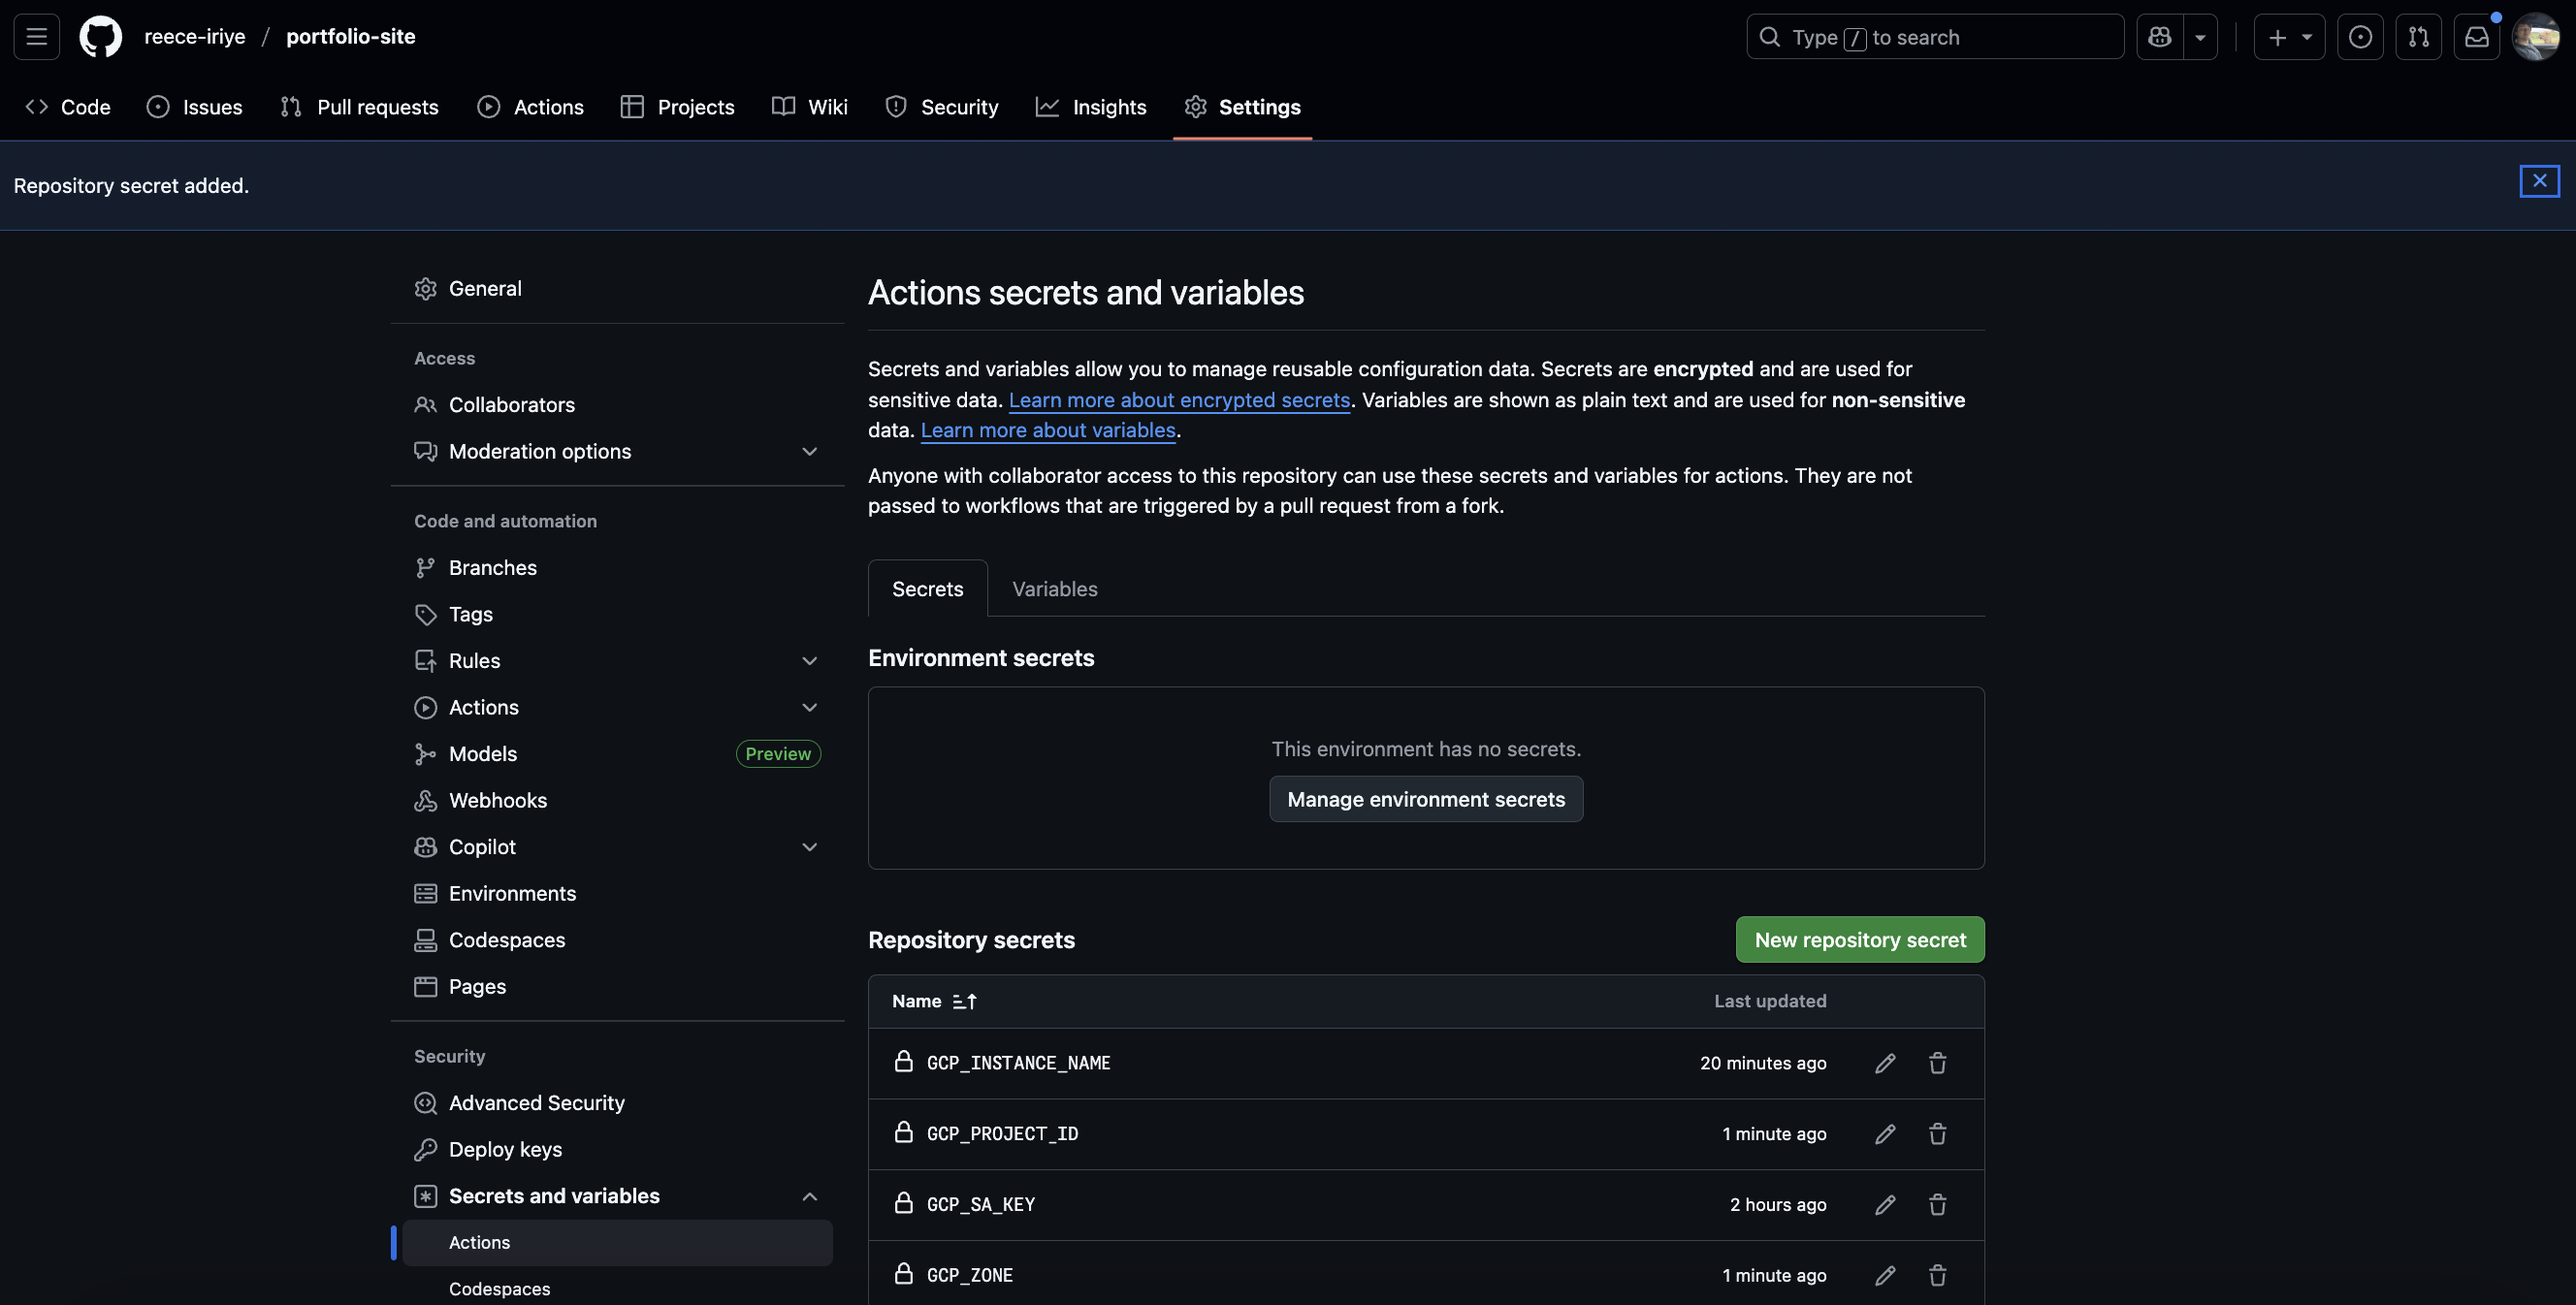
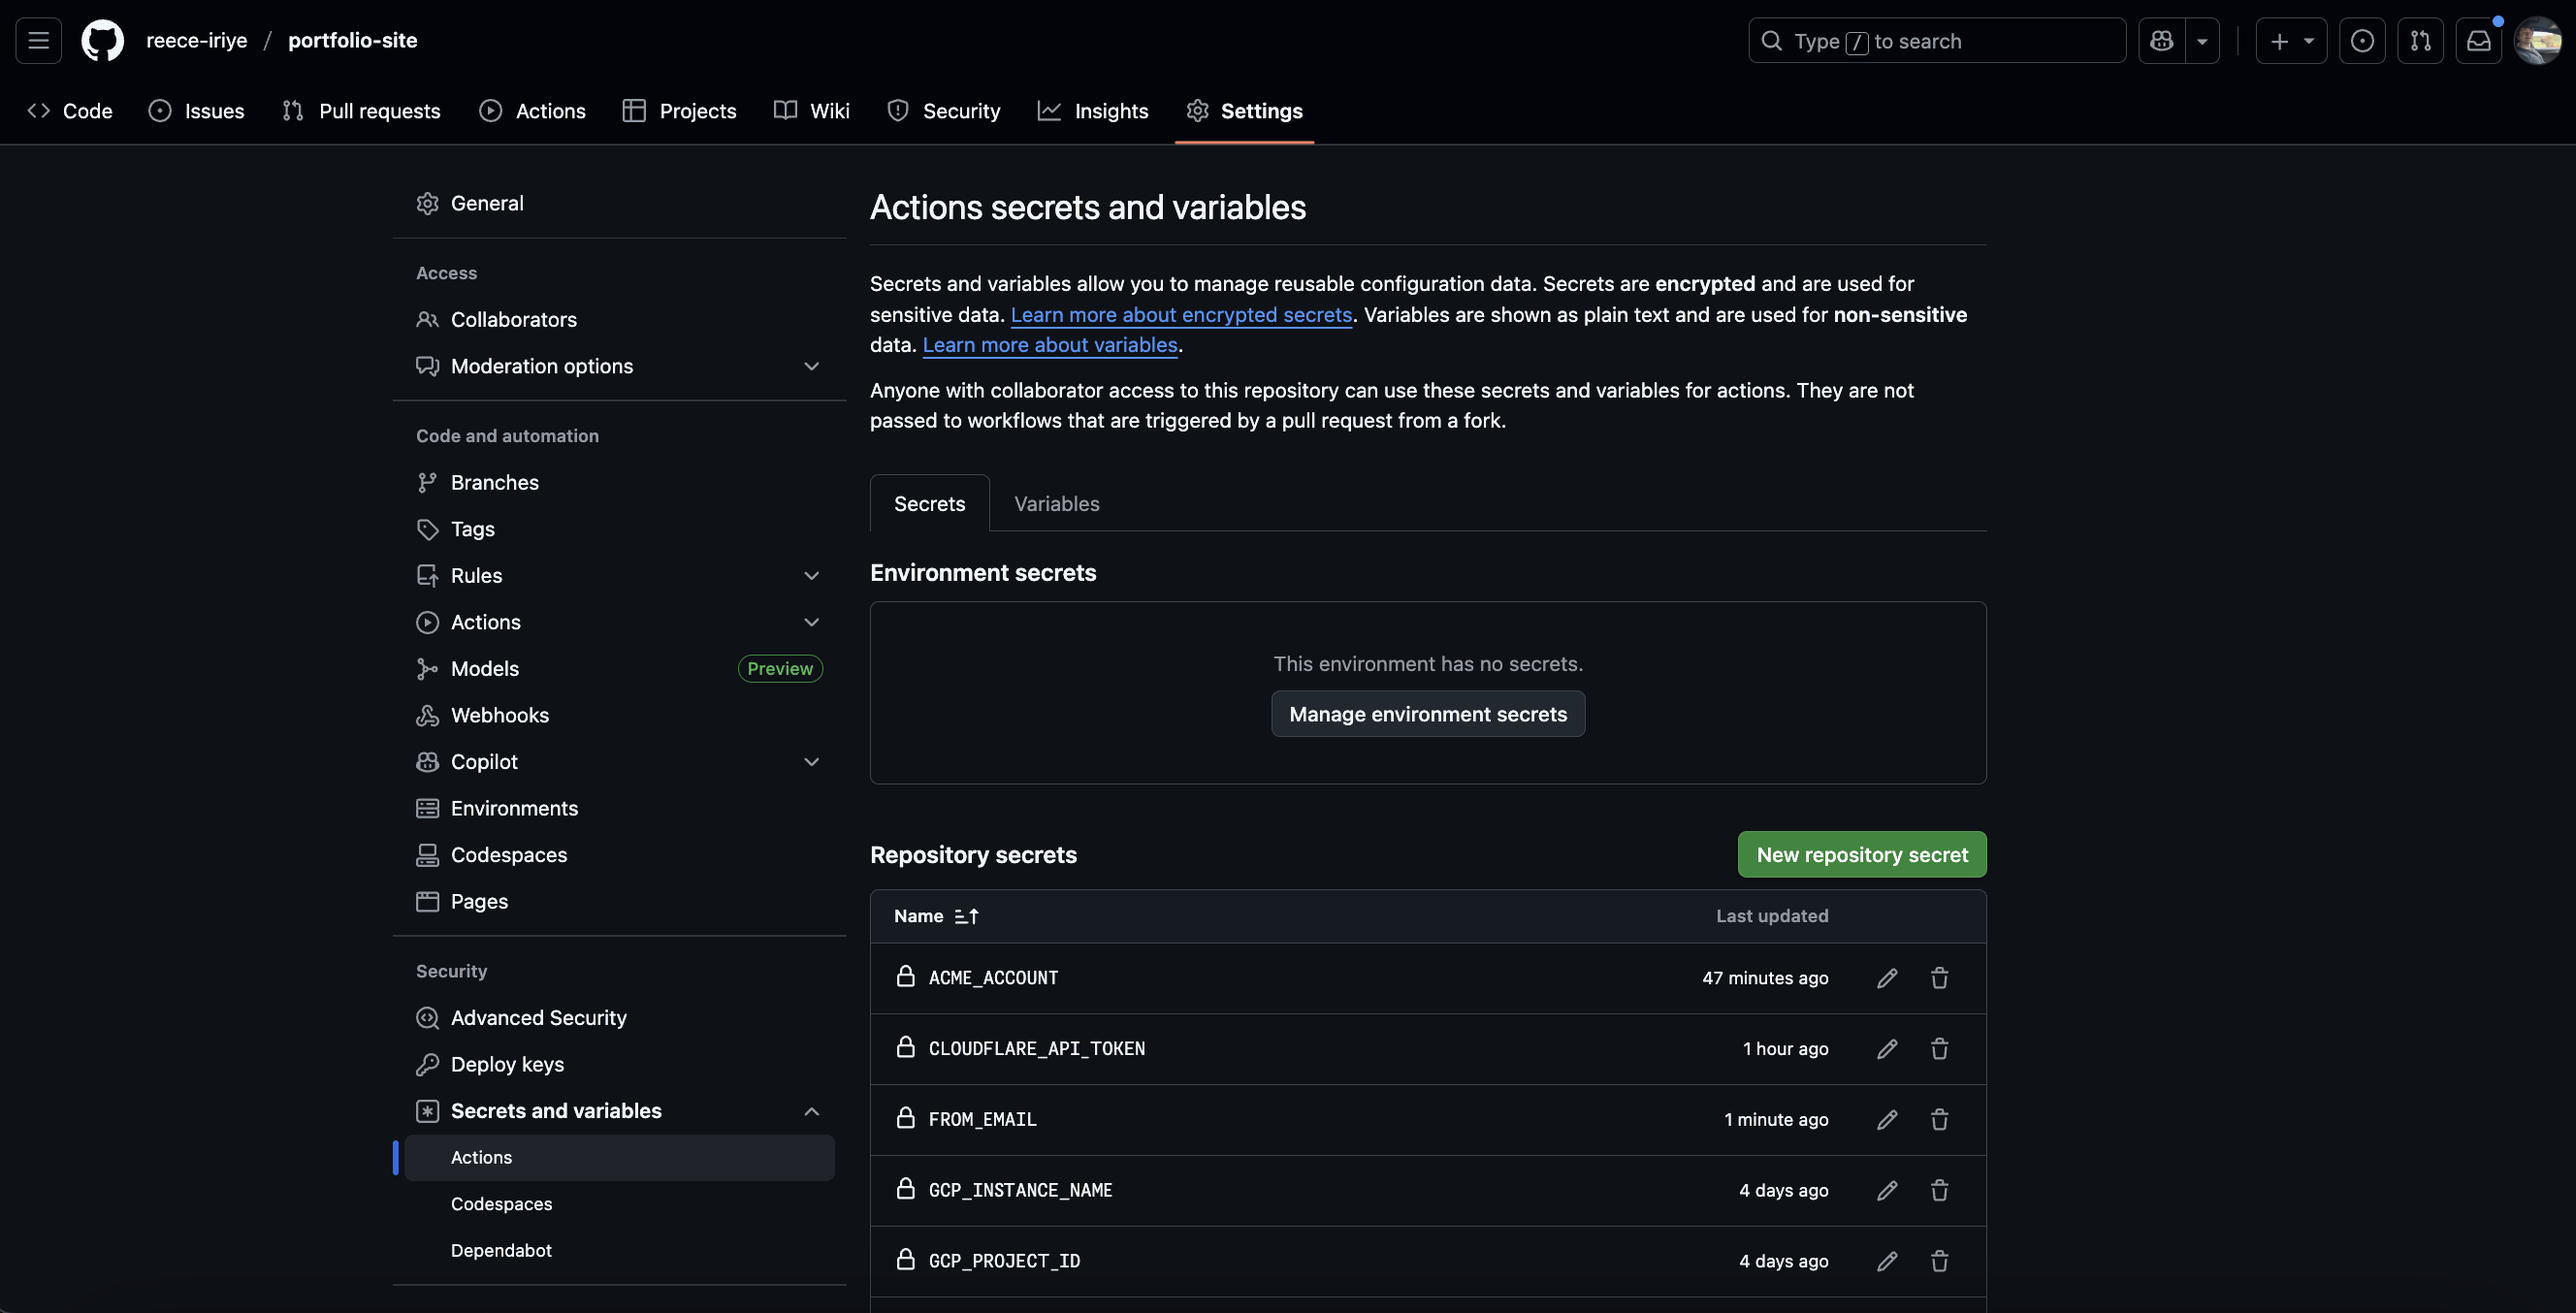
Update README.md with updated CI/CD GCP Instructions

diff --git a/README.md b/README.md
@@ -8,11 +8,11 @@ Here is my portfolio. I am deloying this on a Google Cloud Platform VM using Doc
 
 Here are the following set-up's that need to take place when deploying my portfolio on-prem in a Kubernetes cluster and using Docker.
 
-#### Docker Local Testing
+#### Application Local Testing
 
 First, set up a `.env` file using the variables from the `.env.example` file. All these values are required for successfully configuring an SMTP server using your choice of service. I tested these configurations using a Brevo SMTP server.
 
-Run the following commands:
+If you just want to test the application itself and not the rest of the components, the following commands:
 
 ```bash
 cd htmx
@@ -22,10 +22,28 @@ docker run --env-file .env -p 8080:8080 portfolio-server
 
 From here, you can fetch data from the HTMX/Go server using `http://localhost:8080`.
 
+I also set up `air` for this Go application for local testing, so if you would prefer, install the `air` CLI tool and start up the server. This can also be accessed on `http://localhost:8080`.
 
+```bash
+cd htmx
+
+go mod tidy && go mod download
+go install github.com/air-verse/air@latest
+
+air
+```
+
+Now, all code changes will be reflected in the development server immediately.
 
 
 ## Deploy Docker Compose Production Environment on GCP Virtual Machine
+
+
+
+```bash
+sudo adduser --disabled-password --gecos "" githubactions-deploy-user
+sudo usermod -aG docker githubactions-deploy-user
+```
 
 
 ### Create VM
@@ -50,7 +68,55 @@ sudo apt-get install git
 git --version
 ```
 
+### Create GCP Service Account
+
+Create a service account in your [Google Cloud Console](https://console.cloud.google.com/). Navigate to **IAM & Admin -> Service Accounts**. 
+
+![Google Cloud Service Account](https://raw.githubusercontent.com/reece-iriye/portfolio-site/main/assets/root-readme/gcloud-service-account.png)
+
+Click **Create Service Account** and name it `githubactions-deploy-user`. Assign the `IAP-Secured Tunnel User` role to the newly created user. Go to the **Keys** tab, then **Add Key -> Create new key -> JSON**. Download the JSON key file, which will be needed for Github Actions secrets. The reason why this needs to be done is to allow these GitHub Actions steps in the `deploy-gcp-vm` job to work:
+
+```yaml
+- name: Update Git Repository in VM over IAP
+  run: |
+    gcloud compute ssh githubactions-deploy-user@${{ secrets.GCP_INSTANCE_NAME }} \
+      --tunnel-through-iap \
+      --project=${{ secrets.GCP_PROJECT_ID }} \
+      --zone=${{ secrets.GCP_ZONE }} \
+      --command="cd ~/portfolio-site && git pull origin main"
+
+- name: Update Containers on VM over IAP
+  run: |
+    gcloud compute ssh githubactions-deploy-user@${{ secrets.GCP_INSTANCE_NAME }} \
+      --tunnel-through-iap \
+      --project=${{ secrets.GCP_PROJECT_ID }} \
+      --zone=${{ secrets.GCP_ZONE }} \
+      --command="cd ~/portfolio-site && docker compose pull && docker compose -f compose.prod.yaml up -d"
+```
+
+Now, the following secrets need to be added to the GitHub repository. Click on the **Settings** tab, then **Secrets and Variables -> Actions**, then configure the following secrets:
+- `GCP_SA_KEY` -> the JSON file contents you downloaded
+- `GCP_PROJECT_ID` -> the GCP Project ID (e.g. `devops-portfolio-123456`)
+- `GCP_ZONE` -> the zone the VM is located in (e.g. `us-eastern1-a`)
+- `GCP_INSTANCE_NAME` -> the name of the VM (e.g. `portfolio-vm`)
+
+In order for this account to have access to the VM, you need to configure the account using your default GCP user that you used previously to SSH into the VM.
+
+```bash
+sudo adduser --disabled-password --gecos "" githubactions-deploy-user
+
+sudo -u githubactions-deploy-user bash
+cd ~
+git clone https://github.com/reece-iriye/portfolio-site portfolio-site  # Or use forked repository if you forked it
+cd ./portfolio-site
+git branch --set-upstream-to=origin/main main
+
+exit
+```
+
+
 ### Add Docker to VM
+
 
 I followed the instructions directly from the Docker docs for installing Docker onto a Debian Bookworm 12 VM, which can be found [here](https://docs.docker.com/engine/install/debian/#install-using-the-repository).
 
@@ -78,115 +144,25 @@ sudo apt-get install docker-ce docker-ce-cli containerd.io docker-buildx-plugin 
 sudo docker run hello-world
 ```
 
-To ensure that your user can communicate with the Docker daeomon through this Unix socket `/var/run/docker.sock` owned by `root` with permissions `660`, you must run the following command:
+To ensure that your user and `githubactions-deploy-user` can communicate with the Docker daeomon through this Unix socket `/var/run/docker.sock` owned by `root` with permissions `660`, you must run the following command:
 
 ```bash
 sudo usermod -aG docker $USER
+sudo usermod -aG docker githubactions-deploy-user
 ```
 
-Then, log out and back in, and test `docker ps` to test that it's working.
-
+Then, log out and back in, and test `docker run hello-world` and `docker ps` on both accounts to test that it's working.
 
 
 ## Set Up Continuous Deployment
 
+### Enviromnent Variable File Injection via GitHub Secrets
 
-
-### Configure Deployment User on VM
-
-Create the Linux user. I decided to create the user inside the `/srv/github` directory to separate CI/CD service accounts associated with Github Actions from the rest of the users in `/home`.
-
-```bash
-cd /srv
-sudo mkdir -p ./github
-cd ./github
-
-sudo useradd -m -r -d /srv/github/deployuser -s /bin/bash deployuser
-```
-
-Then, add `deployuser` to Docker group.
-
-```bash
-sudo usermod -aG docker deployuser
-```
-
-
-### Pull GitHub Repository and Configure Environment Variables
-
-Pull the repository's main branch and configure it to successfully.
-
-```bash
-sudo su - deployuser
-git clone https://github.com/reece-iriye/portfolio-site
-cd ./portfolio-site
-git branch --set-upstream-to=origin/main main
-exit
-
-# If portfolio site is created by separate user, run this command to ensure deployuser owns all files within the directory
-sudo chown -R deployuser:deployuser /srv/github/deployuser/portfolio-site
-```
-
-### Enviromnent Variable File Injection
-
-All environment varibles need to be configured in each directory. Please reference the `.env.example` files to showcase exactly which variables need to be created, and create them in each `.env` file in each subdirectory in accordance with the `.env.example` files.
-
-
-### Configure SSH Public Key for GitLab
-
-
-
-Now, on a separate shell outside of the GCP VM (I did this on my Mac ZSH shell), generate an SSH key.
-
-```bash
-cd ~/.ssh
-ssh-keygen -t ed25519 -C "github-actions-deploy" -f github_actions_deploy_key
-```
-
-Going back to the GCP VM shell, run these commands to expose `deployuser` to the device's public key.
-
-```bash
-# Create SSH directory to store public key
-sudo su - deployuser
-mkdir -p /srv/github/deployuser/.ssh
-chmod 700 /srv/github/deployuser/.ssh
-
-# Paste public key configs into authorized_keys file
-vim /srv/github/deployuser/.ssh/authorized_keys
-<PASTE_PUBLIC_KEY_CONTENTS>
-:wq
-
-# Ensure file permissions are stored
-chmod 600 /srv/github/.ssh/authorized_keys
-
-# Ensure ownership is correct
-chown -R deployuser:deployuser /srv/github/deployuser/.ssh
-```
-
-Check the output of this `ls` command to ensure file permissions are correctly configured:
-```bash
-ls -ld /srv /srv/github /srv/github/deployuser /srv/github/deployuser/.ssh /srv/github/deployuser/.ssh/authorized_keys
-```
-
-Expected output:
-```
-drwxr-xr-x 3 root       root       ... /srv
-drwxr-xr-x 3 root       root       ... /srv/github
-drwxr-xr-x 5 deployuser deployuser ... /srv/github/deployuser
-drwx------ 2 deployuser deployuser ... /srv/github/deployuser/.ssh
--rw------- 1 deployuser deployuser ... /srv/github/deployuser/.ssh/authorized_keys
-```
-
-Finally, test external VM access from the same device that the private key was created on to make sure this can work. On my Mac, this required me running the following command, while using `gcloud compute services list` to grab the external IP address of the Virtual Machine.
-
-```bash
-# Test SSH Connection to the VM to ensure it works correctly. Enable verbose logging to fetch errors.
-ssh -i ~/.ssh/github_actions_deploy_key deployuser@<VM_EXTERNAL_IP> -vvv
-```
-
-From here, continuous deployment onto the GCP VM via the `deployuser` Linux service account is almost successfully configured. The `deploy-gcp-vm` job will be invoked upon pushing to main in this repository. All that needs to be configured now are the secrets on GitHub. The jobs will fail upon each commit to main, because the empty secrets.
-
-
-### Configure Secrets on GitHub
+All environment variables that the application uses need to be configured. Reference all existing `.env.example` files, featured in both the `./grafana/` and `./htmx/` directories, and configure all of them in the same GitHub Actions secrets section as before.
 
 ![GitHub Secrets Page](https://raw.githubusercontent.com/reece-iriye/portfolio-site/main/assets/root-readme/github-secrets.png)
+
+From here, continuous deployment onto the GCP VM via the `githubactions-deploy-user` service account is almost successfully configured. The `deploy-gcp-vm` job will be invoked upon pushing to main in this repository, or it can be run manually for repository owners. 
+
+
 
